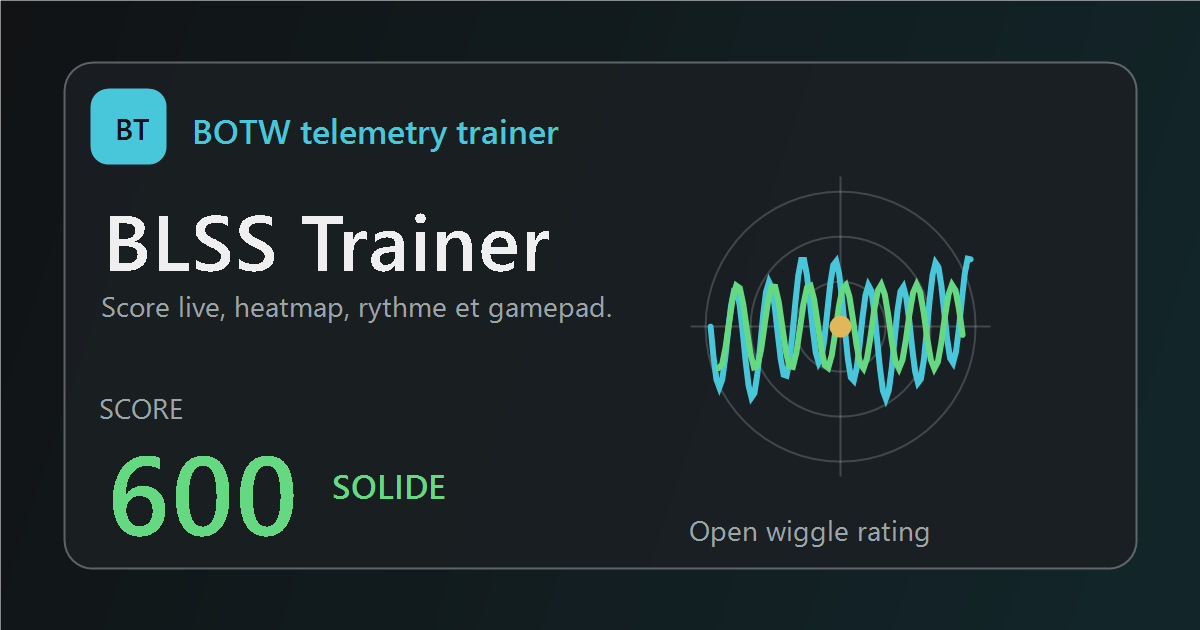
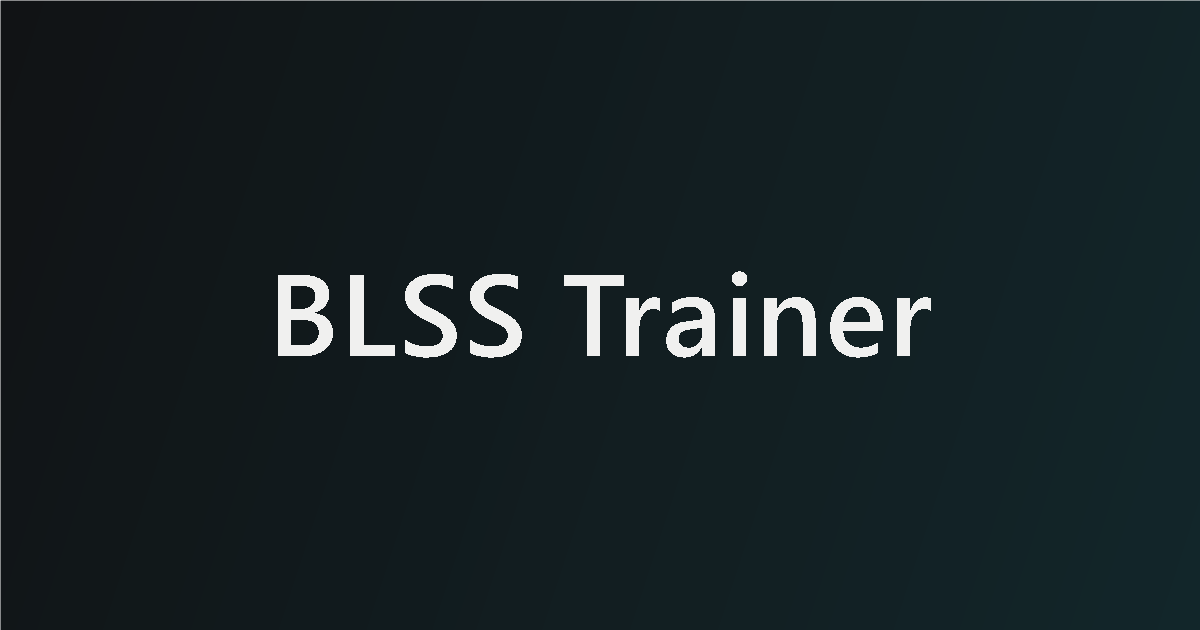
Simplify social preview text

diff --git a/docs/index.html b/docs/index.html
@@ -7,30 +7,18 @@
       content="default-src 'self'; script-src 'self'; style-src 'self'; img-src 'self' data:"
     />
     <meta name="viewport" content="width=device-width, initial-scale=1.0" />
-    <meta
-      name="description"
-      content="BLSS Trainer analyse ton wiggle BOTW avec score live, heatmap, rythme et support gamepad."
-    />
     <meta property="og:type" content="website" />
     <meta property="og:site_name" content="BLSS Trainer" />
     <meta property="og:title" content="BLSS Trainer" />
-    <meta
-      property="og:description"
-      content="Score live, heatmap et analyse du rythme pour t'entrainer au BLSS dans Zelda Breath of the Wild."
-    />
     <meta property="og:url" content="https://nilk-31.github.io/blss-trainer/" />
     <meta property="og:image" content="https://nilk-31.github.io/blss-trainer/preview.png" />
     <meta property="og:image:secure_url" content="https://nilk-31.github.io/blss-trainer/preview.png" />
     <meta property="og:image:type" content="image/png" />
     <meta property="og:image:width" content="1200" />
     <meta property="og:image:height" content="630" />
-    <meta property="og:image:alt" content="BLSS Trainer score preview" />
+    <meta property="og:image:alt" content="BLSS Trainer" />
     <meta name="twitter:card" content="summary_large_image" />
     <meta name="twitter:title" content="BLSS Trainer" />
-    <meta
-      name="twitter:description"
-      content="Score live, heatmap et analyse du rythme pour t'entrainer au BLSS."
-    />
     <meta name="twitter:image" content="https://nilk-31.github.io/blss-trainer/preview.png" />
     <title>BLSS Trainer</title>
     <link rel="stylesheet" href="./styles.css" />

diff --git a/src/renderer/index.html b/src/renderer/index.html
@@ -7,30 +7,18 @@
       content="default-src 'self'; script-src 'self'; style-src 'self'; img-src 'self' data:"
     />
     <meta name="viewport" content="width=device-width, initial-scale=1.0" />
-    <meta
-      name="description"
-      content="BLSS Trainer analyse ton wiggle BOTW avec score live, heatmap, rythme et support gamepad."
-    />
     <meta property="og:type" content="website" />
     <meta property="og:site_name" content="BLSS Trainer" />
     <meta property="og:title" content="BLSS Trainer" />
-    <meta
-      property="og:description"
-      content="Score live, heatmap et analyse du rythme pour t'entrainer au BLSS dans Zelda Breath of the Wild."
-    />
     <meta property="og:url" content="https://nilk-31.github.io/blss-trainer/" />
     <meta property="og:image" content="https://nilk-31.github.io/blss-trainer/preview.png" />
     <meta property="og:image:secure_url" content="https://nilk-31.github.io/blss-trainer/preview.png" />
     <meta property="og:image:type" content="image/png" />
     <meta property="og:image:width" content="1200" />
     <meta property="og:image:height" content="630" />
-    <meta property="og:image:alt" content="BLSS Trainer score preview" />
+    <meta property="og:image:alt" content="BLSS Trainer" />
     <meta name="twitter:card" content="summary_large_image" />
     <meta name="twitter:title" content="BLSS Trainer" />
-    <meta
-      name="twitter:description"
-      content="Score live, heatmap et analyse du rythme pour t'entrainer au BLSS."
-    />
     <meta name="twitter:image" content="https://nilk-31.github.io/blss-trainer/preview.png" />
     <title>BLSS Trainer</title>
     <link rel="stylesheet" href="./styles.css" />
